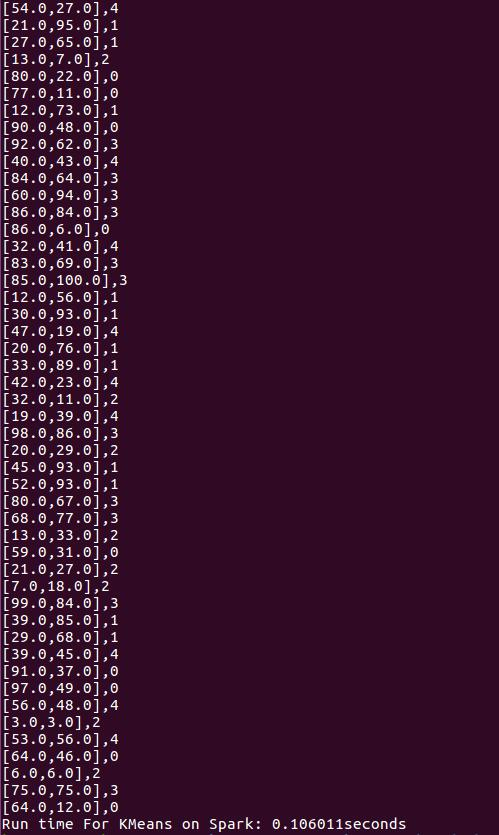
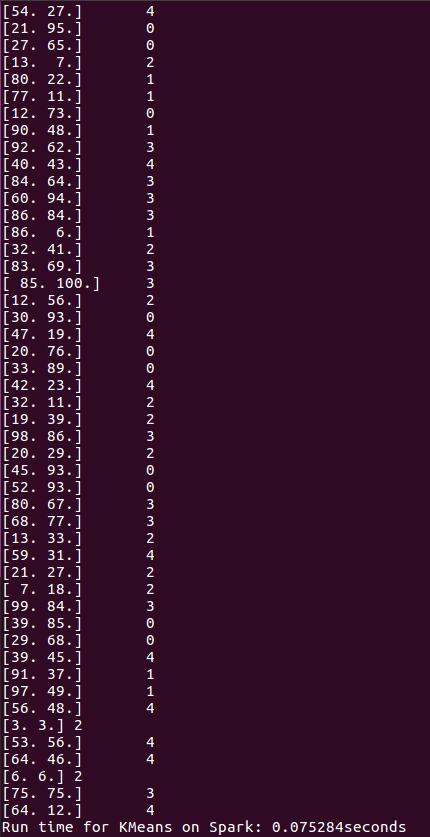
update

Changed region(s): [[0.0, 0.0, 0.9372, 1.0]]

diff --git a/Financial BigData Processing Technology/Assignment 9/KMeans_Spark.py b/Financial BigData Processing Technology/Assignment 9/KMeans_Spark.py
@@ -1,33 +1,35 @@
-from pyspark.ml.linalg import Vectors
+import numpy as np
 from pyspark import SparkContext
-from pyspark.ml.clustering import KMeans
-from pyspark.sql.session import SparkSession
-from pyspark.sql import Row
+import time
 
-import time # To calculate run time
-
-def f(x):
-	rel = {}
-	rel['features'] = Vectors.dense(float(x[0]), float(x[1]))
-	return rel
+def closestPoint(p, centers):
+	index = 0
+	distance = float("+inf")
+	for i in range(len(centers)):
+		tempDistance = np.sum((p - centers[i]) ** 2)
+		if tempDistance < distance:
+			distance = tempDistance
+			index = i
+	return index
 
 if __name__ == "__main__":
+	start = time.clock() # Start time
+
 	sc = SparkContext(appName="KMeans")
-	spark = SparkSession(sc)
-	
-	start_time = time.clock()
+	data = sc.textFile("Instance.txt").map(lambda line: np.array([float(x) for x in line.split(",")]))
+	K = 5
+	iterationNum = 3	
+	centers = data.takeSample(False, K, 1)
+	for repetition in range(iterationNum):
+		closestPoints = data.map(lambda p: (closestPoint(p, centers), (p, 1)))
+		pointStats = closestPoints.reduceByKey(lambda x1, x2: (x1[0] + x2[0], x1[1] + x2[1]))
+		newPoints = pointStats.map(lambda st: (st[0], st[1][0] / st[1][1])).collect()
+		for index, p in newPoints:
+			centers[index] = p
+	newInput = closestPoints.collect()
 
-	data = sc.textFile("Instance.txt").map(lambda line: line.split(',')).map(lambda p: Row(**f(p)))
-	df = data.toDF()
-	# Max iteration = 3 for comparison with Hadoop.
-	kmeans = KMeans().setK(5).setMaxIter(3).setFeaturesCol('features').setPredictionCol('prediction')
-	#kmeans = KMeans().setK(5).setFeaturesCol('features').setPredictionCol('prediction')
-	model = kmeans.fit(df)
-	centers = model.clusterCenters()
-	print(centers)
-	results = model.transform(df).collect()
-	end_time = time.clock()
-	for item in results:
-     		print(str(item[0])+ ',' +  str(item[1]))
-	print("Run time For KMeans on Spark: " + str(end_time - start_time) + "seconds")
+	end = time.clock() # End time
 
+	for p in newInput:
+		print(str(p[1][0])+ "\t" +str(p[0]))
+	print("Run time for KMeans on Spark: " + str(end - start) + "seconds")

diff --git a/Financial BigData Processing Technology/Assignment 9/KMeans_Spark_MLlib.py b/Financial BigData Processing Technology/Assignment 9/KMeans_Spark_MLlib.py
@@ -1,0 +1,33 @@
+from pyspark.ml.linalg import Vectors
+from pyspark import SparkContext
+from pyspark.ml.clustering import KMeans
+from pyspark.sql.session import SparkSession
+from pyspark.sql import Row
+
+import time # To calculate run time
+
+def f(x):
+	rel = {}
+	rel['features'] = Vectors.dense(float(x[0]), float(x[1]))
+	return rel
+
+if __name__ == "__main__":
+	start_time = time.clock()
+
+	sc = SparkContext(appName="KMeans")
+	spark = SparkSession(sc)
+
+	data = sc.textFile("Instance.txt").map(lambda line: line.split(',')).map(lambda p: Row(**f(p)))
+	df = data.toDF()
+	# Max iteration = 3 for comparison with Hadoop.
+	kmeans = KMeans().setK(5).setMaxIter(3).setFeaturesCol('features').setPredictionCol('prediction')
+	#kmeans = KMeans().setK(5).setFeaturesCol('features').setPredictionCol('prediction')
+	model = kmeans.fit(df)
+	centers = model.clusterCenters()
+	print(centers)
+	results = model.transform(df).collect()
+	end_time = time.clock()
+	for item in results:
+     		print(str(item[0])+ ',' +  str(item[1]))
+	print("Run time For KMeans on Spark (MLlib): " + str(end_time - start_time) + "seconds")
+
